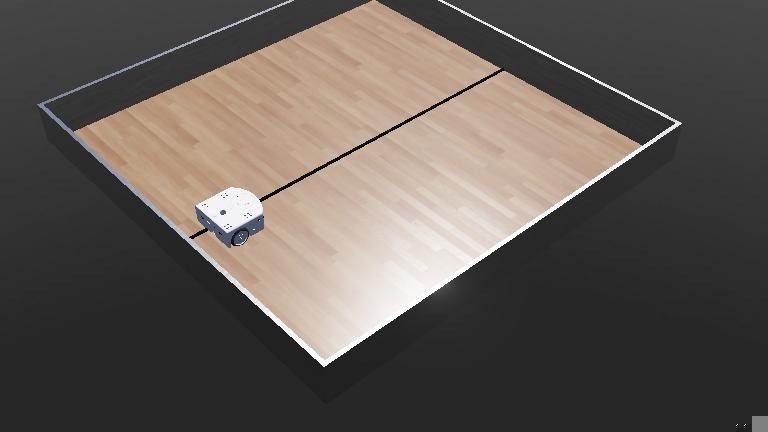
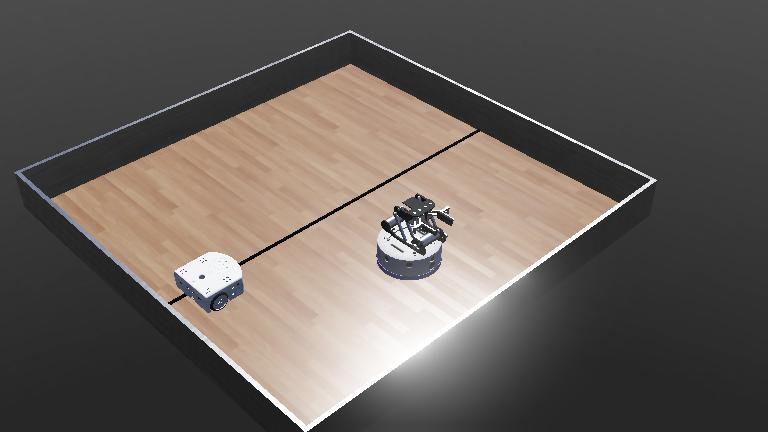
Added khepera4 robot and controller

diff --git a/controllers/drone/drone.py b/controllers/drone/drone.py
@@ -1,0 +1,91 @@
+from controller import Robot
+
+## Initialisation ## 
+robot = Robot()
+
+timestep = int(robot.getBasicTimeStep())
+
+# Get Devices #
+ultrasonic_sensors_names = ["left ultrasonic sensor", 
+                            "front left ultrasonic sensor", 
+                            "front ultrasonic sensor", 
+                            "front right ultrasonic sensor", 
+                            "right ultrasonic sensor"]
+ultrasonic_sensors = {}
+for index, name in enumerate(ultrasonic_sensors_names):
+    ultrasonic_sensors[name] = robot.getDevice(name)
+    ultrasonic_sensors[name].enable(timestep)
+
+infrared_sensors_names = ["rear left infrared sensor", 
+                          "left infrared sensor", 
+                          "front left infrared sensor", 
+                          "front infrared sensor",
+                          "front right infrared sensor", 
+                          "right infrared sensor", 
+                          "rear right infrared sensor", 
+                          "rear infrared sensor",
+                          "ground left infrared sensor", 
+                          "ground front left infrared sensor", 
+                          "ground front right infrared sensor",
+                          "ground right infrared sensor"]
+infrared_sensors = {}
+for index, name in enumerate(infrared_sensors_names):
+    infrared_sensors[name] = robot.getDevice(name)
+    infrared_sensors[name].enable(timestep)
+  
+led_names = ["front left led",
+             "front right led",
+             "rear led"]
+leds = {}
+for name in led_names:
+    leds[name] = robot.getDevice(name)
+
+camera = robot.getDevice("camera")
+camera.enable(timestep)
+
+emitter = robot.getDevice("emitter")
+
+receiver = robot.getDevice("receiver")
+receiver.enable(timestep)
+
+left_motor = robot.getDevice("left wheel motor");
+right_motor = robot.getDevice("right wheel motor");
+
+left_motor.setPosition(float('+inf'))
+left_motor.setVelocity(3)
+
+right_motor.setPosition(float('+inf'))
+right_motor.setVelocity(3)
+
+left_sensor = robot.getDevice("left wheel sensor")
+left_sensor.enable(timestep)
+
+right_sensor = robot.getDevice("right wheel sensor")
+right_sensor.enable(timestep)
+
+gripper_motors = []
+gripper_motors.append(robot.getDevice("horizontal_motor"))
+gripper_motors.append(robot.getDevice("finger_motor::left"))
+
+name = robot.getName()
+time_between_broadcasts = 1000
+
+## Main ##
+time_since_last_broadcast = 0
+x = 0
+y = 0
+
+while robot.step(timestep) != -1:
+    
+    
+    time_since_last_broadcast += timestep
+    if time_since_last_broadcast > time_between_broadcasts:
+        message = { "name":name,
+                    "x": x,
+                    "y": y}
+        emitter.send(str(message))
+        time_since_last_broadcast = 0
+    
+    pass
+
+# Enter here exit cleanup code.
